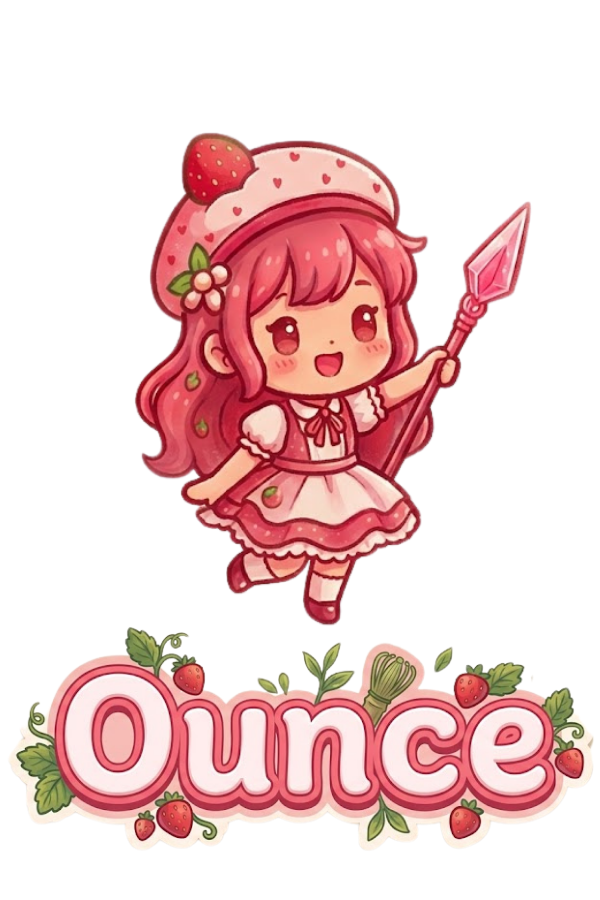
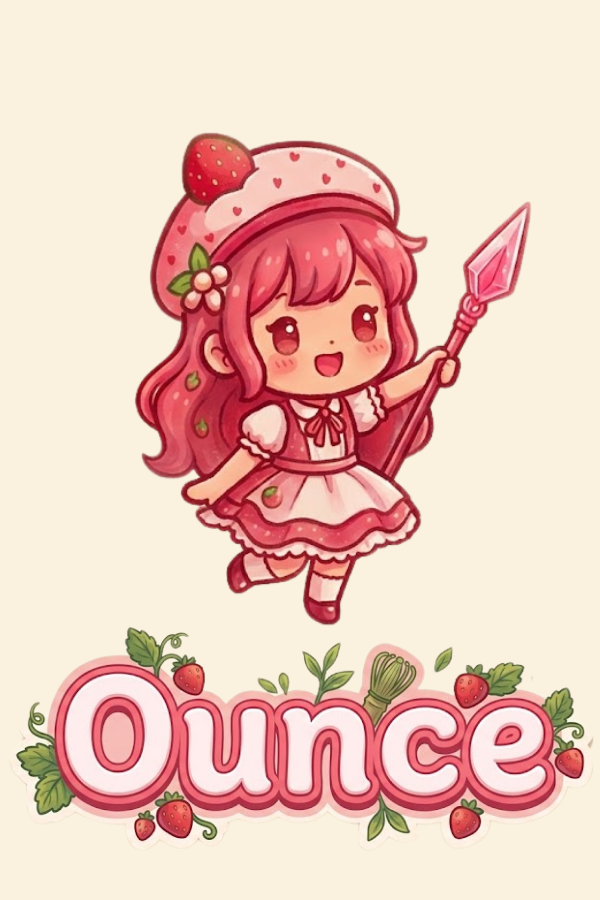
Give the Steam library tile an opaque background
Same 600x900 art, but RGB instead of RGBA. The old one was transparent, and
Steam composites a transparent tile onto black rather than onto the library
background, so the cream ground has to be baked in.

Claude-Session: https://claude.ai/code/session_01PcgKhdKVsBjMQQGNftCUNr

diff --git a/Ounce-Client/Graphics/README.md b/Ounce-Client/Graphics/README.md
@@ -9,7 +9,7 @@ be credited properly.
 | --- | --- |
 | `logo.png` | Wordmark on its own, transparent |
 | `icon.png` | Wordmark + character, square, transparent — source of the app icon |
-| `library.png` | 600×900 portrait, for Steam's library / grid art |
+| `library.png` | 600×900 portrait for Steam's library / grid art — opaque, since Steam renders a transparent tile black |
 | `banner.jpg` | 1024×512 wide header, top of the README |
 | `girl.jpg` | The character on her own, opaque background |
 
